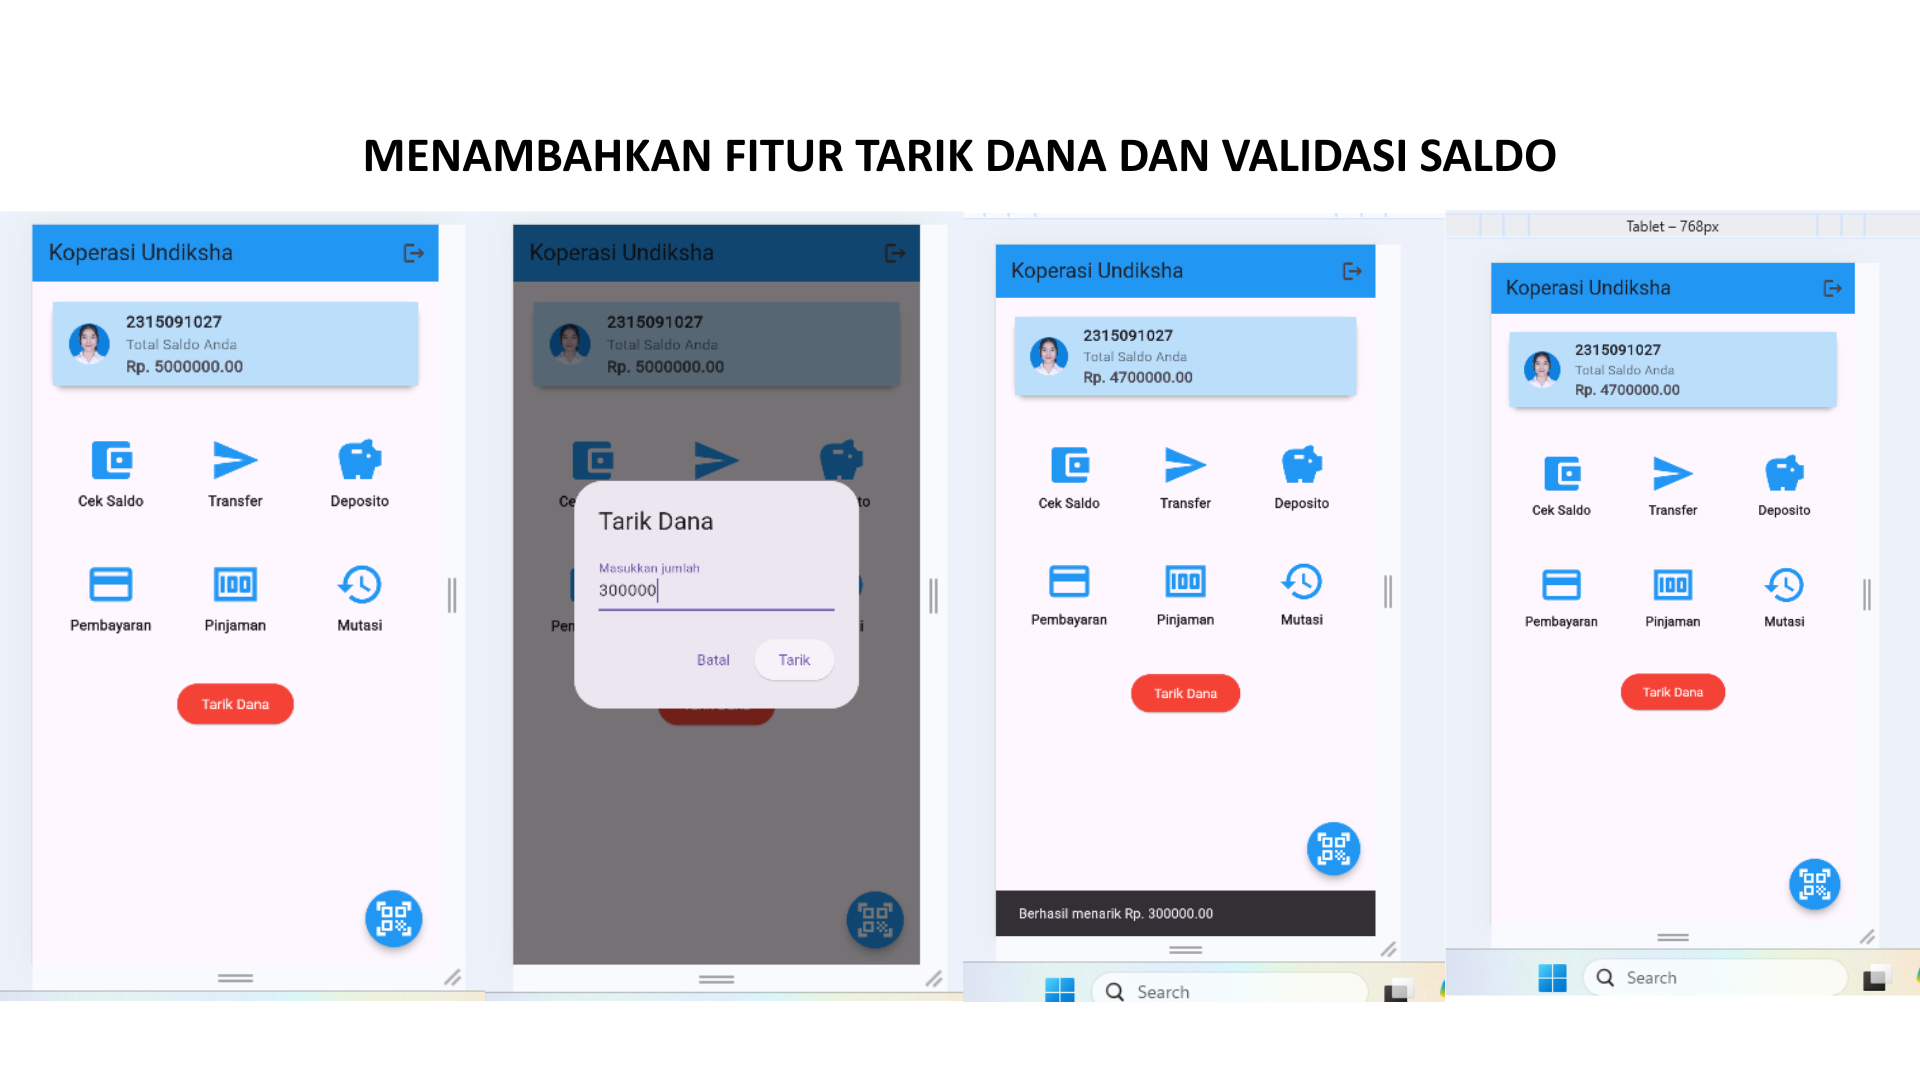
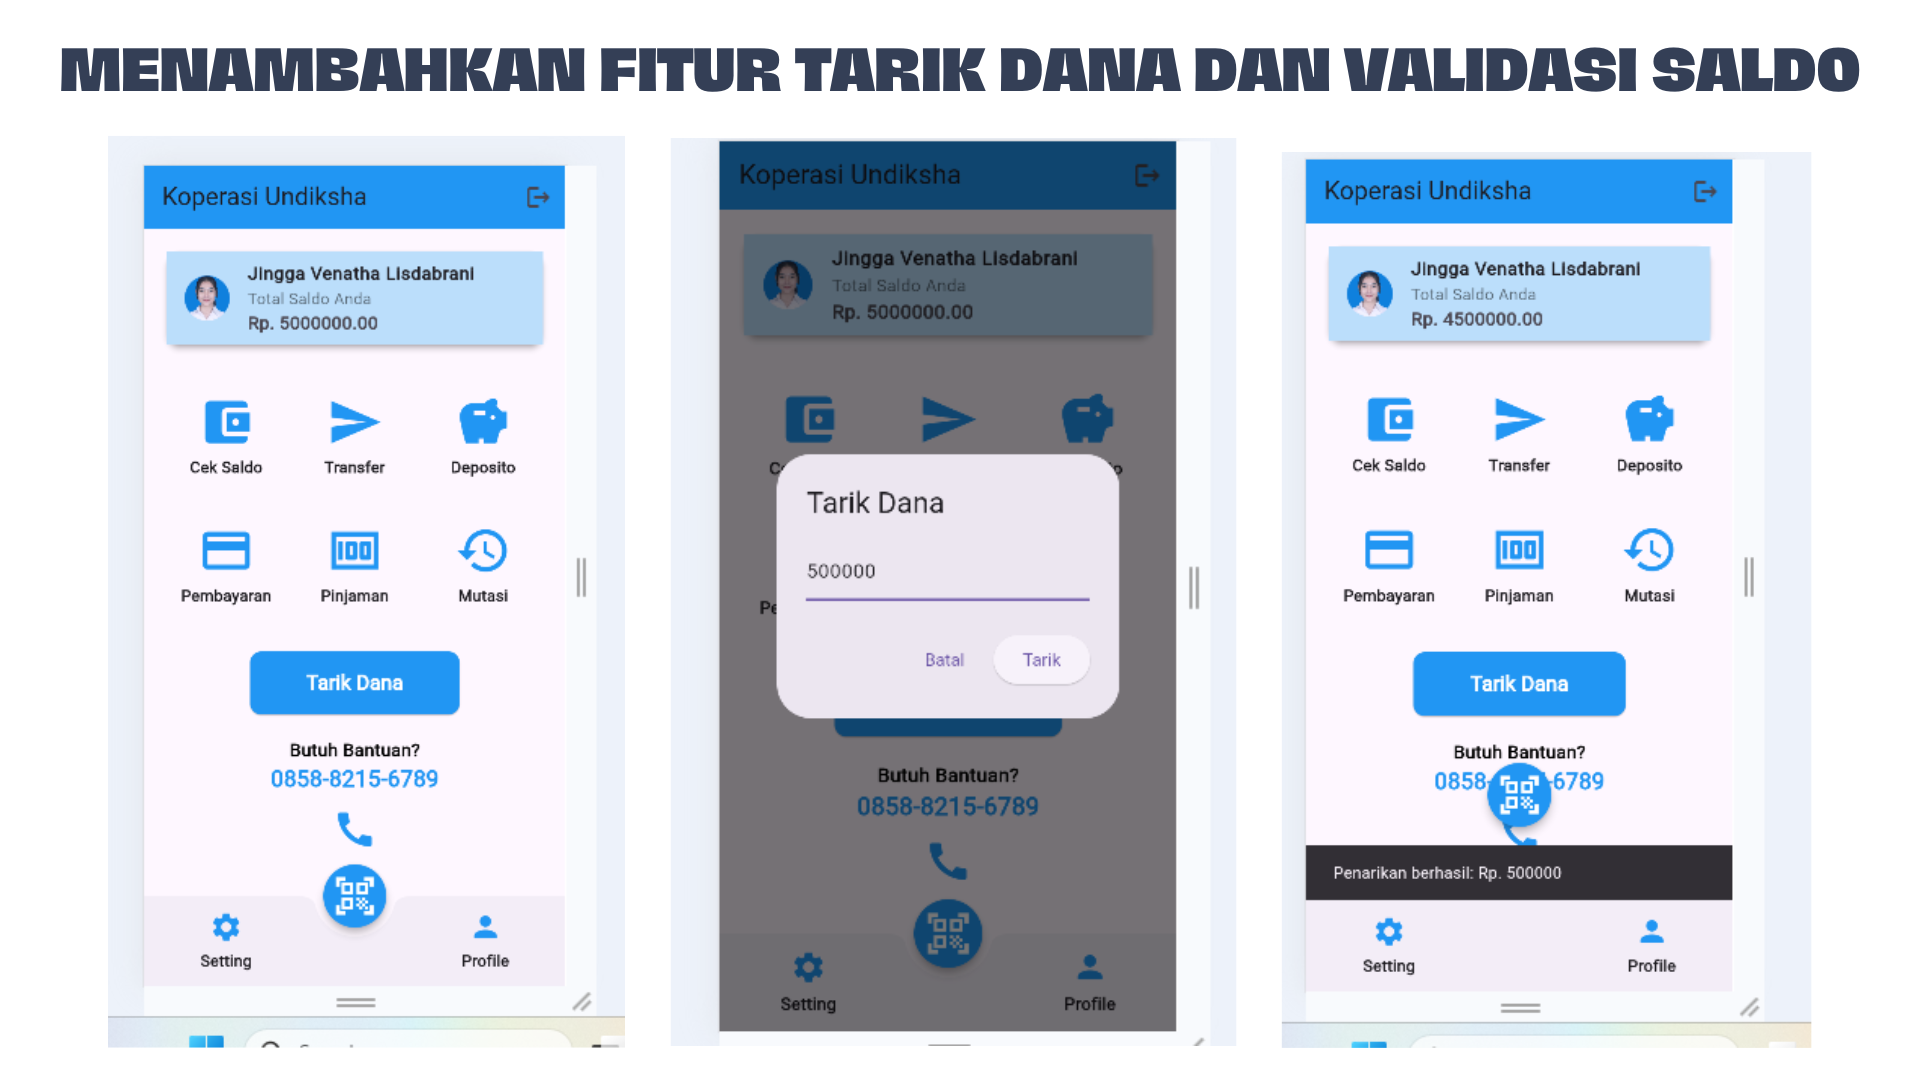
Menambahkan fitur tarik dana dan validasi saldo

diff --git a/lib/home_page.dart b/lib/home_page.dart
@@ -11,54 +11,21 @@ class HomePage extends StatefulWidget {
 }
 
 class _HomePageState extends State<HomePage> {
-  double saldo = 5000000; // Simpan saldo pengguna
+  double saldo = 5000000; // Simulasi saldo awal
 
-  void tarikDana() {
-    showDialog(
-      context: context,
-      builder: (context) {
-        TextEditingController jumlahController = TextEditingController();
-        return AlertDialog(
-          title: Text("Tarik Dana"),
-          content: TextField(
-            controller: jumlahController,
-            keyboardType: TextInputType.number,
-            decoration: InputDecoration(labelText: "Masukkan jumlah"),
-          ),
-          actions: [
-            TextButton(
-              child: Text("Batal"),
-              onPressed: () => Navigator.pop(context),
-            ),
-            ElevatedButton(
-              child: Text("Tarik"),
-              onPressed: () {
-                double jumlah = double.tryParse(jumlahController.text) ?? 0;
-                if (jumlah <= 0) {
-                  ScaffoldMessenger.of(context).showSnackBar(
-                    SnackBar(content: Text("Jumlah tidak valid!")),
-                  );
-                  return;
-                }
-                if (jumlah > saldo) {
-                  ScaffoldMessenger.of(context).showSnackBar(
-                    SnackBar(content: Text("Saldo tidak cukup!")),
-                  );
-                  return;
-                }
-                setState(() {
-                  saldo -= jumlah;
-                });
-                Navigator.pop(context);
-                ScaffoldMessenger.of(context).showSnackBar(
-                  SnackBar(content: Text("Berhasil menarik Rp. ${jumlah.toStringAsFixed(2)}")),
-                );
-              },
-            ),
-          ],
-        );
-      },
-    );
+  void tarikDana(double jumlah) {
+    if (jumlah > saldo) {
+      ScaffoldMessenger.of(context).showSnackBar(
+        SnackBar(content: Text('Saldo tidak cukup!')),
+      );
+    } else {
+      setState(() {
+        saldo -= jumlah;
+      });
+      ScaffoldMessenger.of(context).showSnackBar(
+        SnackBar(content: Text('Penarikan berhasil: Rp. $jumlah')),
+      );
+    }
   }
 
   @override
@@ -90,7 +57,7 @@ class _HomePageState extends State<HomePage> {
                 leading: CircleAvatar(
                   backgroundImage: AssetImage('assets/profile.png'),
                 ),
-                title: Text(widget.username, style: TextStyle(fontWeight: FontWeight.bold)),
+                title: Text('Jingga Venatha Lisdabrani', style: TextStyle(fontWeight: FontWeight.bold)),
                 subtitle: Column(
                   crossAxisAlignment: CrossAxisAlignment.start,
                   children: [
@@ -106,19 +73,46 @@ class _HomePageState extends State<HomePage> {
               shrinkWrap: true,
               crossAxisCount: 3,
               children: [
-                _menuItem(Icons.account_balance_wallet, 'Cek Saldo'),
-                _menuItem(Icons.send, 'Transfer'),
-                _menuItem(Icons.savings, 'Deposito'),
-                _menuItem(Icons.payment, 'Pembayaran'),
-                _menuItem(Icons.money, 'Pinjaman'),
-                _menuItem(Icons.history, 'Mutasi'),
+                _menuItem(Icons.account_balance_wallet, 'Cek Saldo', () {}),
+                _menuItem(Icons.send, 'Transfer', () {}),
+                _menuItem(Icons.savings, 'Deposito', () {}),
+                _menuItem(Icons.payment, 'Pembayaran', () {}),
+                _menuItem(Icons.money, 'Pinjaman', () {}),
+                _menuItem(Icons.history, 'Mutasi', () {}),
               ],
             ),
             SizedBox(height: 20),
             ElevatedButton(
-              style: ElevatedButton.styleFrom(backgroundColor: Colors.red),
-              onPressed: tarikDana,
-              child: Text("Tarik Dana", style: TextStyle(color: Colors.white)),
+              style: ElevatedButton.styleFrom(
+                backgroundColor: Colors.blue,
+                foregroundColor: Colors.white,
+                padding: EdgeInsets.symmetric(vertical: 15, horizontal: 50),
+                shape: RoundedRectangleBorder(
+                  borderRadius: BorderRadius.circular(10),
+                ),
+              ),
+              onPressed: () {
+                _showWithdrawDialog();
+              },
+              child: Text(
+                'Tarik Dana',
+                style: TextStyle(fontSize: 18, fontWeight: FontWeight.bold),
+              ),
+            ),
+            SizedBox(height: 20),
+            Column(
+              children: [
+                Text(
+                  'Butuh Bantuan?',
+                  style: TextStyle(fontSize: 16, fontWeight: FontWeight.bold, color: Colors.black),
+                ),
+                Text(
+                  '0858-8215-6789',
+                  style: TextStyle(fontSize: 20, fontWeight: FontWeight.bold, color: Colors.blue),
+                ),
+                SizedBox(height: 10),
+                Icon(Icons.call, size: 40, color: Colors.blue),
+              ],
             ),
           ],
         ),
@@ -131,17 +125,77 @@ class _HomePageState extends State<HomePage> {
         },
         child: Icon(Icons.qr_code_scanner, size: 40, color: Colors.white),
       ),
+      floatingActionButtonLocation: FloatingActionButtonLocation.centerDocked,
+      bottomNavigationBar: BottomAppBar(
+        shape: CircularNotchedRectangle(),
+        notchMargin: 8.0,
+        child: Row(
+          mainAxisAlignment: MainAxisAlignment.spaceAround,
+          children: [
+            _bottomMenu(Icons.settings, 'Setting'),
+            SizedBox(width: 50),
+            _bottomMenu(Icons.person, 'Profile'),
+          ],
+        ),
+      ),
     );
   }
 
-  Widget _menuItem(IconData icon, String label) {
+  Widget _menuItem(IconData icon, String label, VoidCallback onTap) {
+    return InkWell(
+      onTap: onTap,
+      child: Column(
+        mainAxisAlignment: MainAxisAlignment.center,
+        children: [
+          Icon(icon, size: 50, color: Colors.blue),
+          SizedBox(height: 5),
+          Text(label, textAlign: TextAlign.center, style: TextStyle(fontSize: 14, fontWeight: FontWeight.bold)),
+        ],
+      ),
+    );
+  }
+
+  Widget _bottomMenu(IconData icon, String label) {
     return Column(
-      mainAxisAlignment: MainAxisAlignment.center,
+      mainAxisSize: MainAxisSize.min,
       children: [
-        Icon(icon, size: 50, color: Colors.blue),
+        Icon(icon, size: 30, color: Colors.blue),
         SizedBox(height: 5),
-        Text(label, textAlign: TextAlign.center, style: TextStyle(fontSize: 14, fontWeight: FontWeight.bold)),
+        Text(label, style: TextStyle(fontSize: 14, fontWeight: FontWeight.bold)),
       ],
+    );
+  }
+
+  void _showWithdrawDialog() {
+    TextEditingController amountController = TextEditingController();
+    showDialog(
+      context: context,
+      builder: (context) {
+        return AlertDialog(
+          title: Text('Tarik Dana'),
+          content: TextField(
+            controller: amountController,
+            keyboardType: TextInputType.number,
+            decoration: InputDecoration(hintText: 'Masukkan jumlah dana'),
+          ),
+          actions: [
+            TextButton(
+              onPressed: () => Navigator.pop(context),
+              child: Text('Batal'),
+            ),
+            ElevatedButton(
+              onPressed: () {
+                double? amount = double.tryParse(amountController.text);
+                if (amount != null && amount > 0) {
+                  tarikDana(amount);
+                  Navigator.pop(context);
+                }
+              },
+              child: Text('Tarik'),
+            ),
+          ],
+        );
+      },
     );
   }
 }

diff --git a/lib/main.dart b/lib/main.dart
@@ -18,4 +18,3 @@ class MyApp extends StatelessWidget {
     );
   }
 }
-
